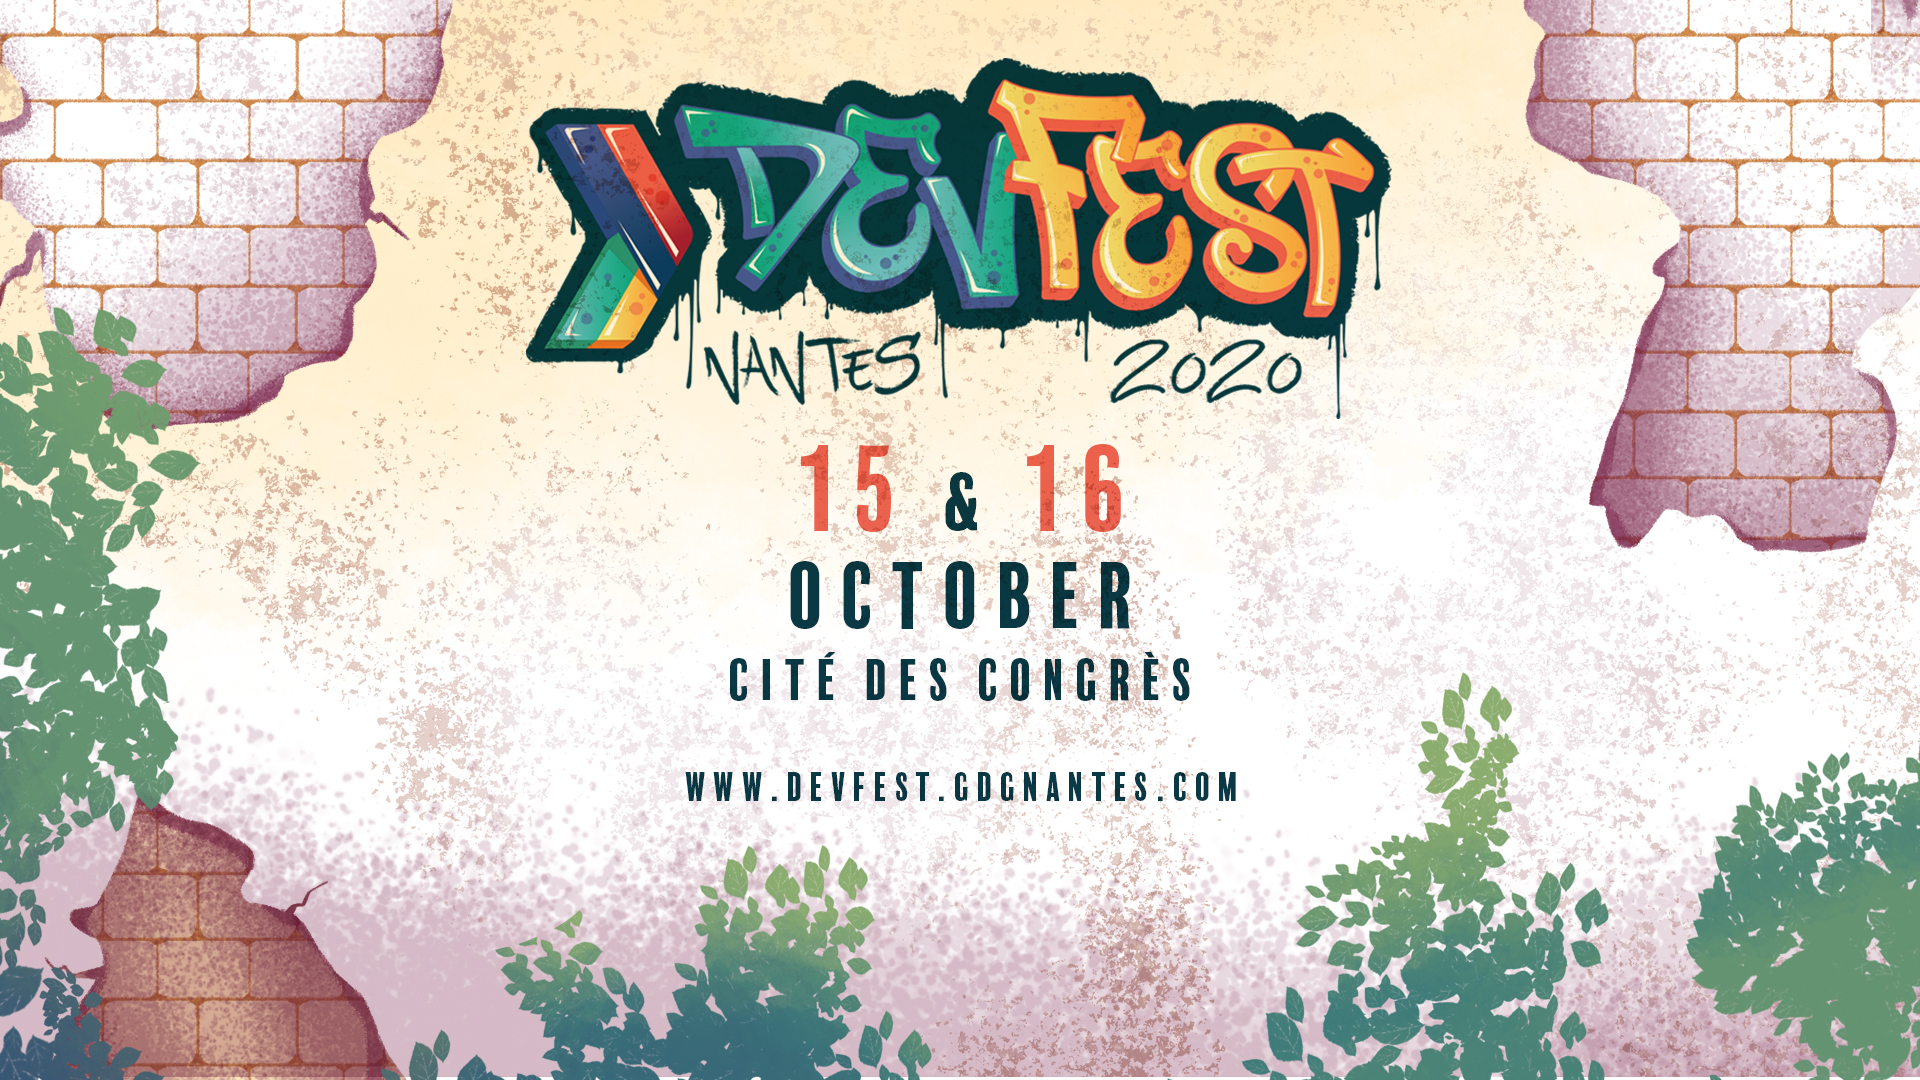
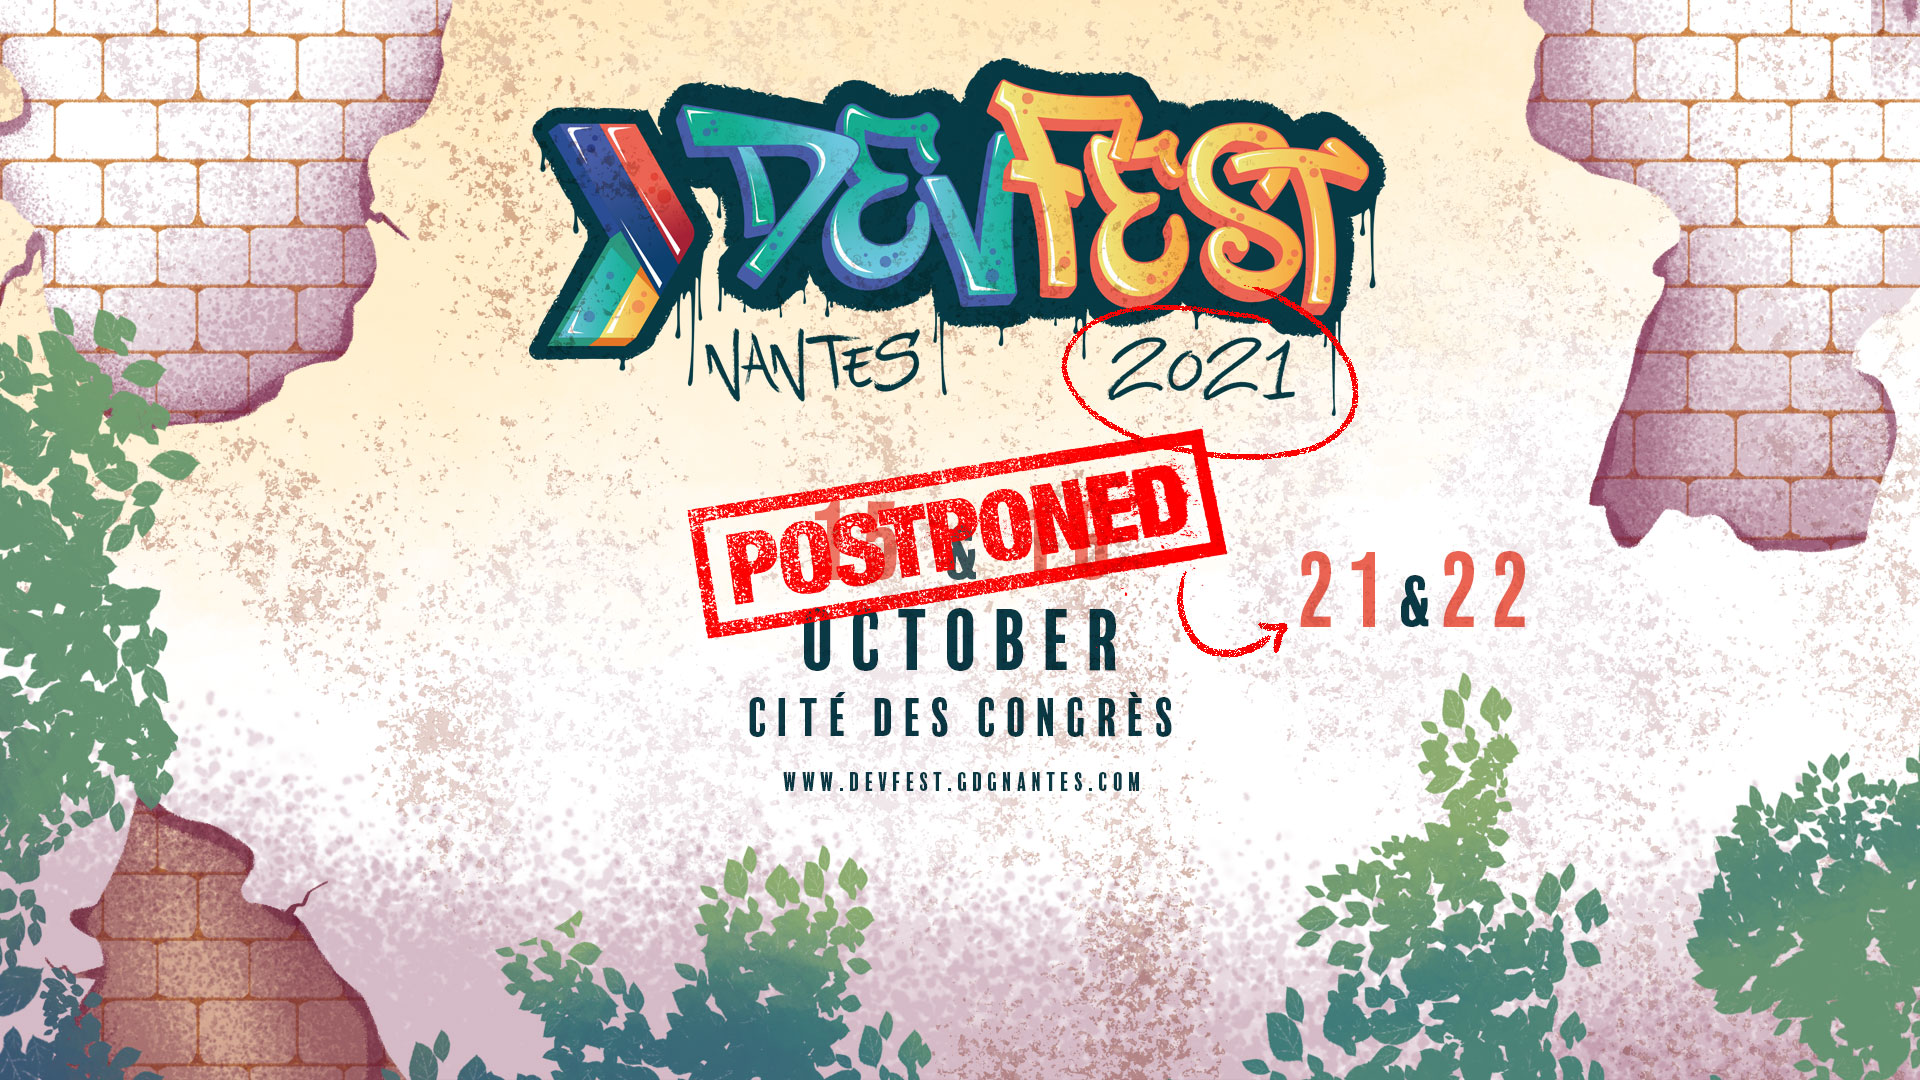
premier test

diff --git a/public/styles.css b/public/styles.css
@@ -17,50 +17,51 @@ body {
 }
 
 body {
-  display: grid;
-  grid-template-columns: auto;
-  grid-template-rows: 100px auto 100px;
-  grid-template-areas: 'header''poster''footer';
-  height: 100%;
+  display: flex;
+  flex-direction: column;
+  justify-content: space-between;
+  align-items: center;
+  min-height: 100%;
+  overflow-y: scroll;
   /* Permalink - use to edit and share this gradient: http://colorzilla.com/gradient-editor/#f8f6d1+0,6b303e+100 */
-  background: #f8f6d1;
-  /* Old browsers */
-  background: -moz-linear-gradient(top,
-      #c3daea 0%,
-      #2d444c 100%);
-  /* FF3.6-15 */
-  background: -webkit-linear-gradient(top,
-      #c3daea 0%,
-      #2d444c 100%);
-  /* Chrome10-25,Safari5.1-6 */
-  background: linear-gradient(to bottom,
-      #c3daea 0%,
-      #2d444c 100%);
-  /* W3C, IE10+, FF16+, Chrome26+, Opera12+, Safari7+ */
+  background: #fcf8ed;
 }
 
 .header {
-  grid-area: header;
   display: flex;
   align-items: center;
   justify-content: center;
+  width: 100%;
+  color: #2d444c;
+}
+
+.header>span {
+  max-width: 800px;
+  width: 100%;
+  font-size: 1.2rem;
+  text-align: center;
+  padding: 20px;
 }
 
 .poster {
-  grid-area: poster;
-  background-color: white;
-  background: url('poster.jpg') no-repeat center center;
-  background-size: contain;
   height: 100%;
+  width: 100%;
+  max-height: 500px;
+}
+
+.poster>img {
+  object-fit: contain;
+  height: 100%;
+  width: 100%;
 }
 
 .footer {
-  grid-area: footer;
   display: flex;
   flex-direction: column;
   align-items: center;
   justify-content: center;
-  color: #e4ad53;
+  color: #2d444c;
+  margin-top: 10px;
 }
 
 .footer>small {
@@ -80,5 +81,5 @@ a.btn-download {
 a.btn-footer {
   font-size: 1.2rem;
   text-decoration: underline;
-  color: #e4ad53;
+  color: #2d444c;
 }

diff --git a/public/index.html b/public/index.html
@@ -34,20 +34,28 @@
 
 <body>
   <div class="header">
-    <a href="https://www.billetweb.fr/partenaire-devfest-nantes-2020" class="btn btn-download" target="_NEW">
-      Click if you want to sponsor it!
-    </a>
+    <span>
+      <p>
+        C’est avec regret que nous reportons le DevFest Nantes 2020 à Octobre 2021.
+      </p>
+      <p>
+        Nous ne pouvons pas assurer la qualité attendue dans les conditions actuelles.
+      </p>
+      <p>Nous tenons à remercier l’ensemble des partenaires qui nous ont soutenus pour cette édition 2020 du Devfest et
+        vous promettons de remettre toute notre énergie pour cette édition du Devfest 2021 sur le thème du street art 🎨
+        👨🏻🎨 !</p>
+    </span>
   </div>
-  <a href="https://www.billetweb.fr/partenaire-devfest-nantes-2020" class="btn btn-download" target="_NEW">
-    <div class="poster"></div>
-  </a>
+  <div class="poster">
+    <img alt="poster" src="poster.jpg" />
+  </div>
   <div class="footer">
     <div>
       <a href="https://devfest2019.gdgnantes.com" target="_NEW" class="btn btn-footer">
         Check the last edition's website.
       </a>
     </div>
-    <small>Organized by GDG Nantes.</small>
+    <small>Organized with ❤ by GDG Nantes.</small>
   </div>
 </body>
 
